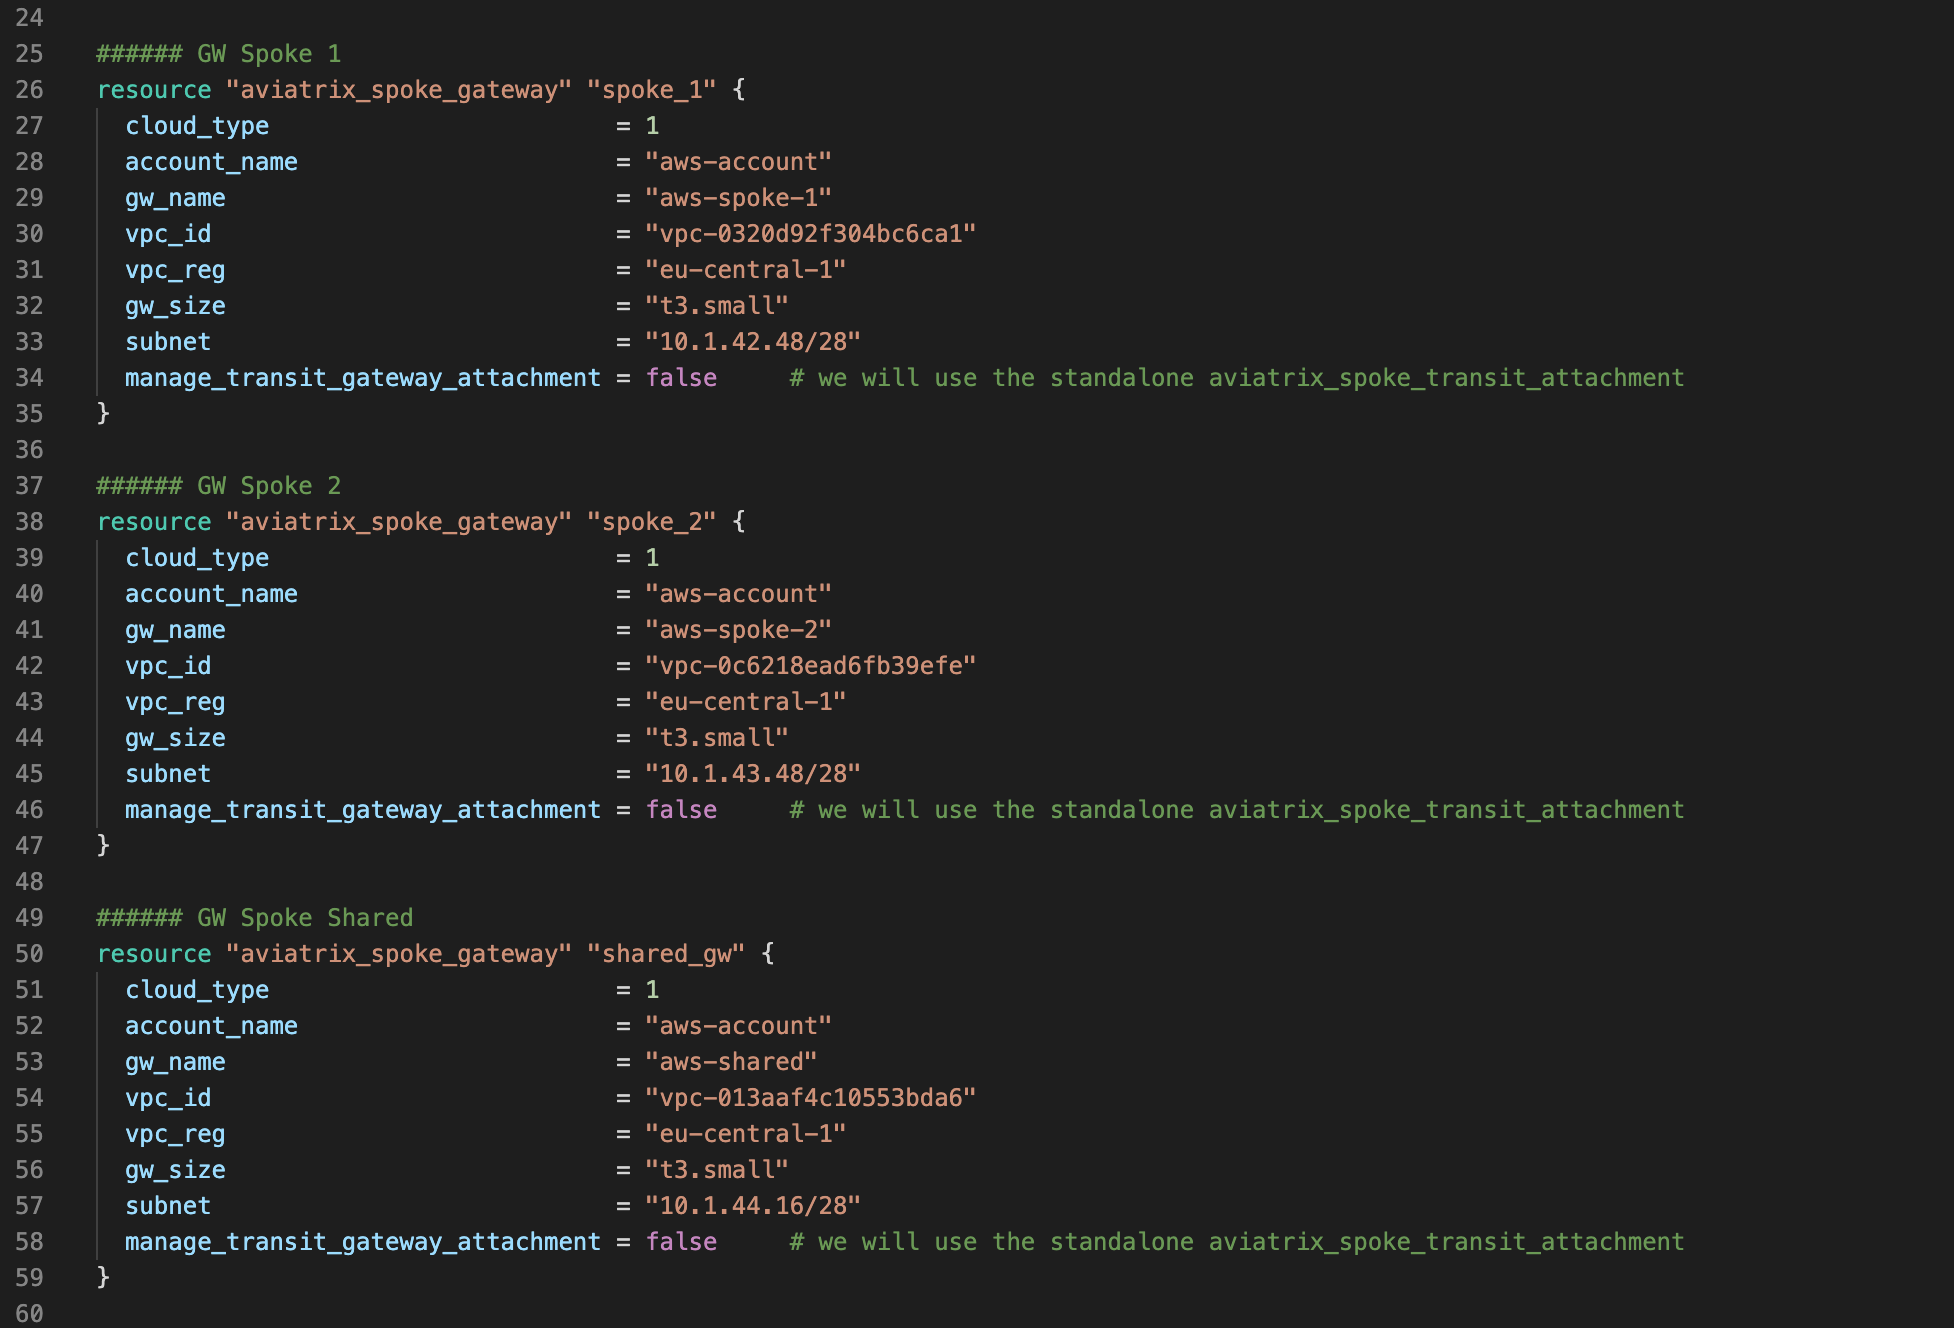
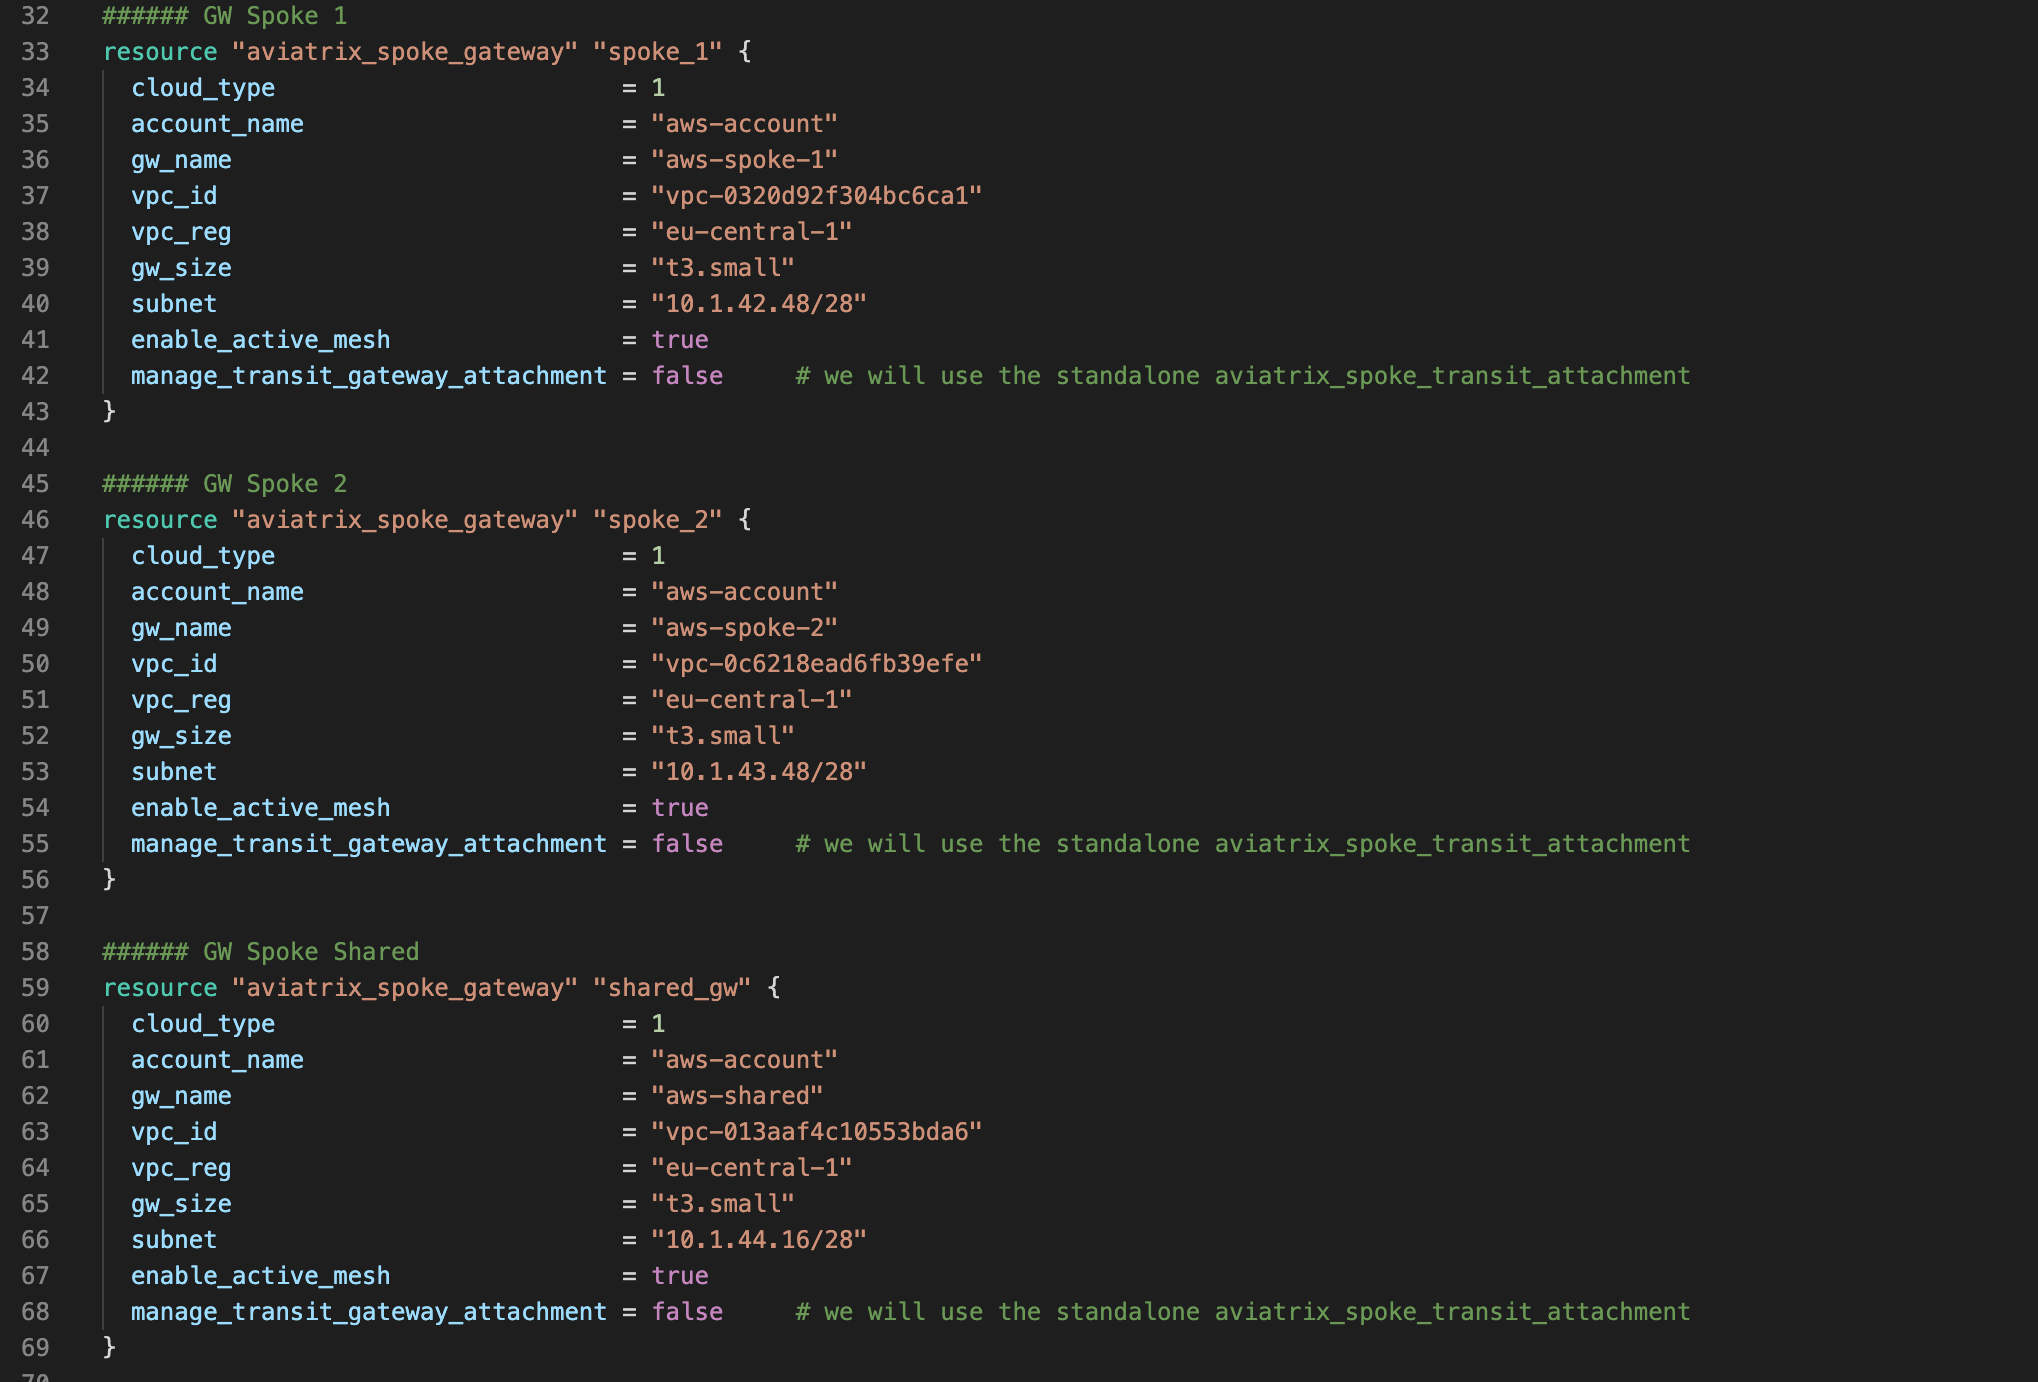
f

Changed region(s): [[0.0, 0.0, 0.8741, 1.0]]

diff --git a/docs/lab2.md b/docs/lab2.md
@@ -156,11 +156,11 @@ Hint: 10.[podx].44.16/28 or 10.[podx].44.32/28 - we can silently agree that subn
 
 We have all details to deploy three spokes in VPCs:
 
-|          VPC  |       GW Name |          Size |  Region       |    VPC ID     | Public Subnet CIDR | 
-| ------------- | ------------- | ------------- | ------------- | ------------- | ------------------ | 
-| aws-spoke-1   | aws-spoke-1   | t3.small      | eu-central-1  |   xxxxx       |    x.x.x.x/28      |
-| aws-spoke-2   | aws-spoke-2   | t3.small      | eu-central-1  |   xxxxx       |    x.x.x.x/28      |
-| aws-shared   | aws-shared   | t3.small      | eu-central-1  |   xxxxx       |    x.x.x.x/28      |
+|          VPC  |       GW Name |          Size |  Region       |    VPC ID     | Public Subnet CIDR | Active-Mesh |
+| ------------- | ------------- | ------------- | ------------- | ------------- | ------------------ | ----------- |
+| aws-spoke-1   | aws-spoke-1   | t3.small      | eu-central-1  |   xxxxx       |    x.x.x.x/28      |  true    |
+| aws-spoke-2   | aws-spoke-2   | t3.small      | eu-central-1  |   xxxxx       |    x.x.x.x/28      |  true    |
+| aws-shared   | aws-shared   | t3.small      | eu-central-1  |   xxxxx       |    x.x.x.x/28      |   true     |
 
 
 You are going to use the same ```~/lab2/main.tf``` to configure all Spoke Gateways. Do not delete previous configuration!
@@ -234,7 +234,15 @@ Go to **_Multi-Cloud Transit -> List_** and look at the gateway routing tables f
 
 By default, routes are not propagated between spokes attached to the same transit gateway. We have to enable a setting on our transit gateway to allow this to happen.  
 
-Go to **_Multi-Cloud Transit -> Advanced Config_**. Select the _AWS-TRANSIT-GW_ and enable _Connected Transit_.
+You need to enable Connected Transit. To do this modify Transit GW configuration by adding   ```connected_transit = true```
+
+<img src="https://raw.githubusercontent.com/karolnedza/avx-sva-lab-docs/master/docs/images/connected_transit.png" width="700">
+
+
+Save the file and run ```terraform apply``` Enter ```yes```  Terraform should modify Transit GW.
+
+<img src="https://raw.githubusercontent.com/karolnedza/avx-sva-lab-docs/master/docs/images/connected_transit_apply.png" width="700">
+
 
 * Connect into AWS-SRV1
 * Run the following commands:
